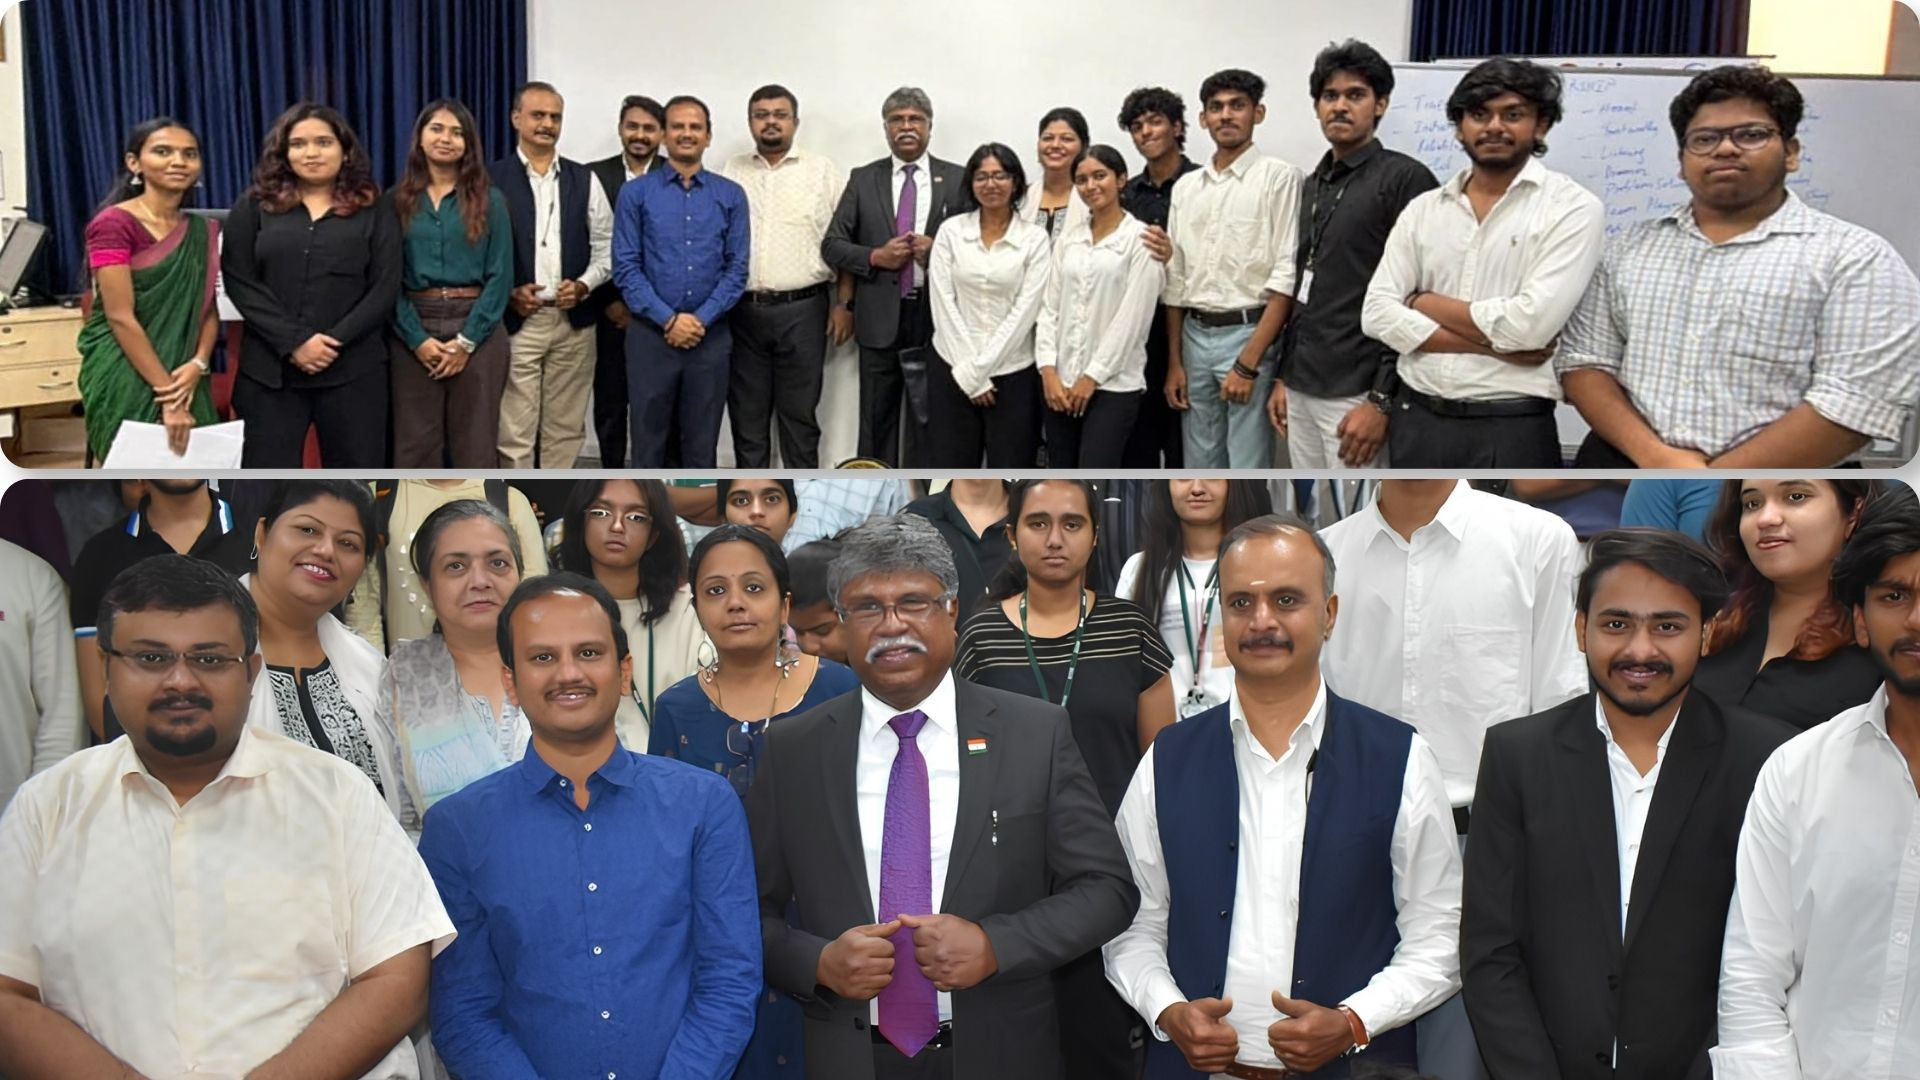
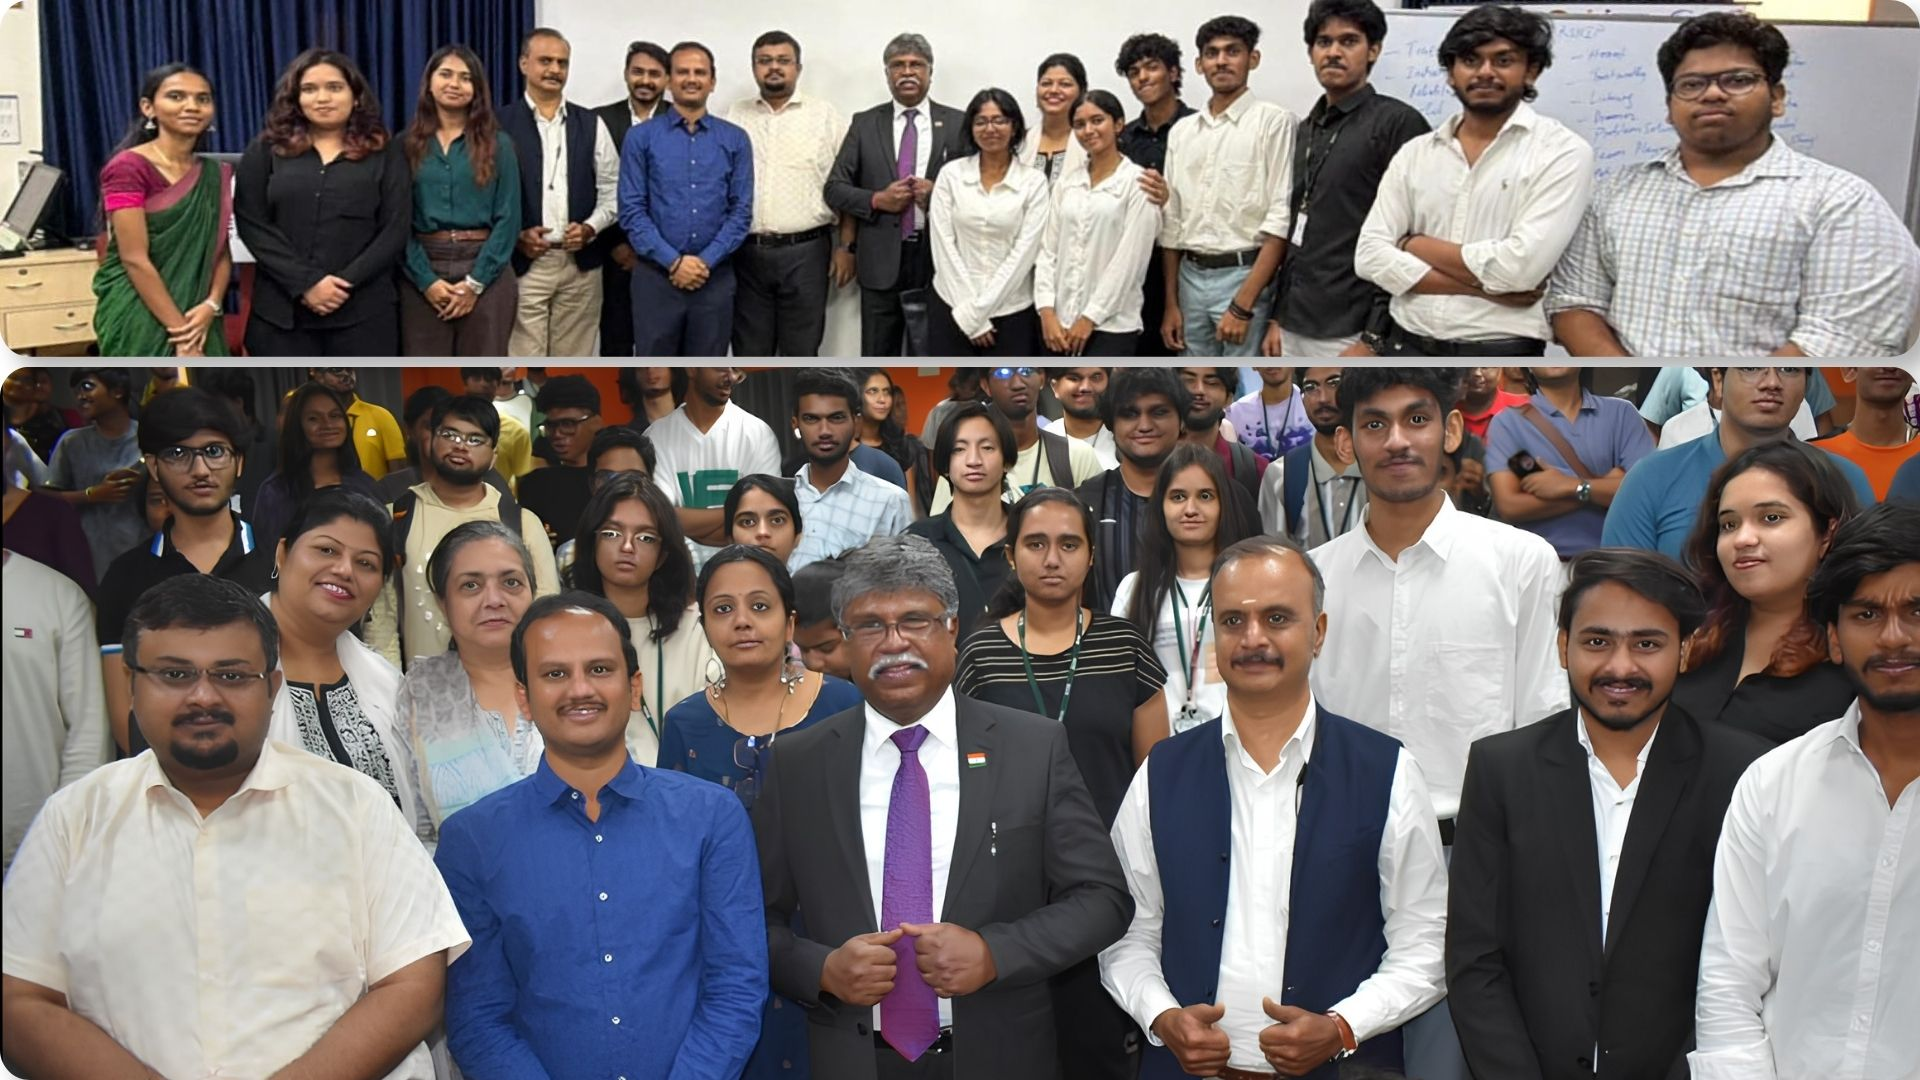
Update Sudev Mitra designation to Biggest IN the NECK FOR ALL

diff --git a/lib/placeholders.ts b/lib/placeholders.ts
@@ -102,7 +102,7 @@ export const PLACEHOLDERS_CATALOG: PlaceholderInfo[] = [
   { id: 17, title: "Kunal Bhadauria", subtitle: "Vice President", category: "Core Committee", page: "/about", component: "BoardMemberCard" },
   { id: 18, title: "Kayomarz Pavri", subtitle: "Head - Design & Digital Media", category: "Core Committee", page: "/about", component: "BoardMemberCard" },
   { id: 19, title: "Shwetha S", subtitle: "Head - Design & Social Media", category: "Core Committee", page: "/about", component: "BoardMemberCard" },
-  { id: 20, title: "Sudev Mitra", subtitle: "Student Trainee Associate", category: "Student Trainee Associates", page: "/about", component: "BoardMemberCard" },
+  { id: 20, title: "Sudev Mitra", subtitle: "Biggest IN the NECK FOR ALL", category: "Student Trainee Associates", page: "/about", component: "BoardMemberCard" },
   { id: 21, title: "Jyotsna Karn", subtitle: "Chief Coordinator", category: "Core Committee", page: "/about", component: "BoardMemberCard" },
   { id: 22, title: "Pranav P J", subtitle: "Chief Coordinator", category: "Core Committee", page: "/about", component: "BoardMemberCard" },
   { id: 23, title: "Shravya T", subtitle: "Chief Coordinator", category: "Core Committee", page: "/about", component: "BoardMemberCard" },

diff --git a/lib/board-data.ts b/lib/board-data.ts
@@ -427,7 +427,7 @@ export const TRAINEE_ASSOCIATES: BoardMember[] = [
     id: "sudev-mitra",
     placeholderId: 20,
     name: "Sudev Mitra",
-    role: "Student Trainee Associate",
+    role: "Biggest IN the NECK FOR ALL",
     designation: "LEADS Next Gen Centre",
     roleGroup: "Student Trainee Associates",
     initials: "SM",

diff --git a/PHOTO_PLACEHOLDERS_DIRECTORY.md b/PHOTO_PLACEHOLDERS_DIRECTORY.md
@@ -53,7 +53,7 @@
 | **ph17** | Kunal Bhadauria | Vice President | Core Committee | `/about` | `BoardMemberCard` | `/images/committee/kunal-bhadauria.webp` | `app/about/page.tsx` |
 | **ph18** | Kayomarz Pavri | Head - Design & Digital Media | Core Committee | `/about` | `BoardMemberCard` | `/images/committee/kayomarz-pavri.webp` | `app/about/page.tsx` |
 | **ph19** | Shwetha S | Head - Design & Social Media | Core Committee | `/about` | `BoardMemberCard` | `/images/committee/shwetha-s.webp` | `app/about/page.tsx` |
-| **ph20** | Sudev Mitra | Student Trainee Associate | Student Trainee Associates | `/about` | `BoardMemberCard` | `/images/committee/sudev-mitra.webp` | `app/about/page.tsx` |
+| **ph20** | Sudev Mitra | Biggest IN the NECK FOR ALL | Student Trainee Associates | `/about` | `BoardMemberCard` | `/images/committee/sudev-mitra.webp` | `app/about/page.tsx` |
 | **ph21** | Jyotsna Karn | Chief Coordinator | Core Committee | `/about` | `BoardMemberCard` | `/images/committee/jyotsna-karn.webp` | `app/about/page.tsx` |
 | **ph22** | Pranav P J | Chief Coordinator | Core Committee | `/about` | `BoardMemberCard` | `/images/committee/pranav-pj.webp` | `app/about/page.tsx` |
 | **ph23** | Shravya T | Chief Coordinator | Core Committee | `/about` | `BoardMemberCard` | `/images/committee/shravya-t.webp` | `app/about/page.tsx` |
